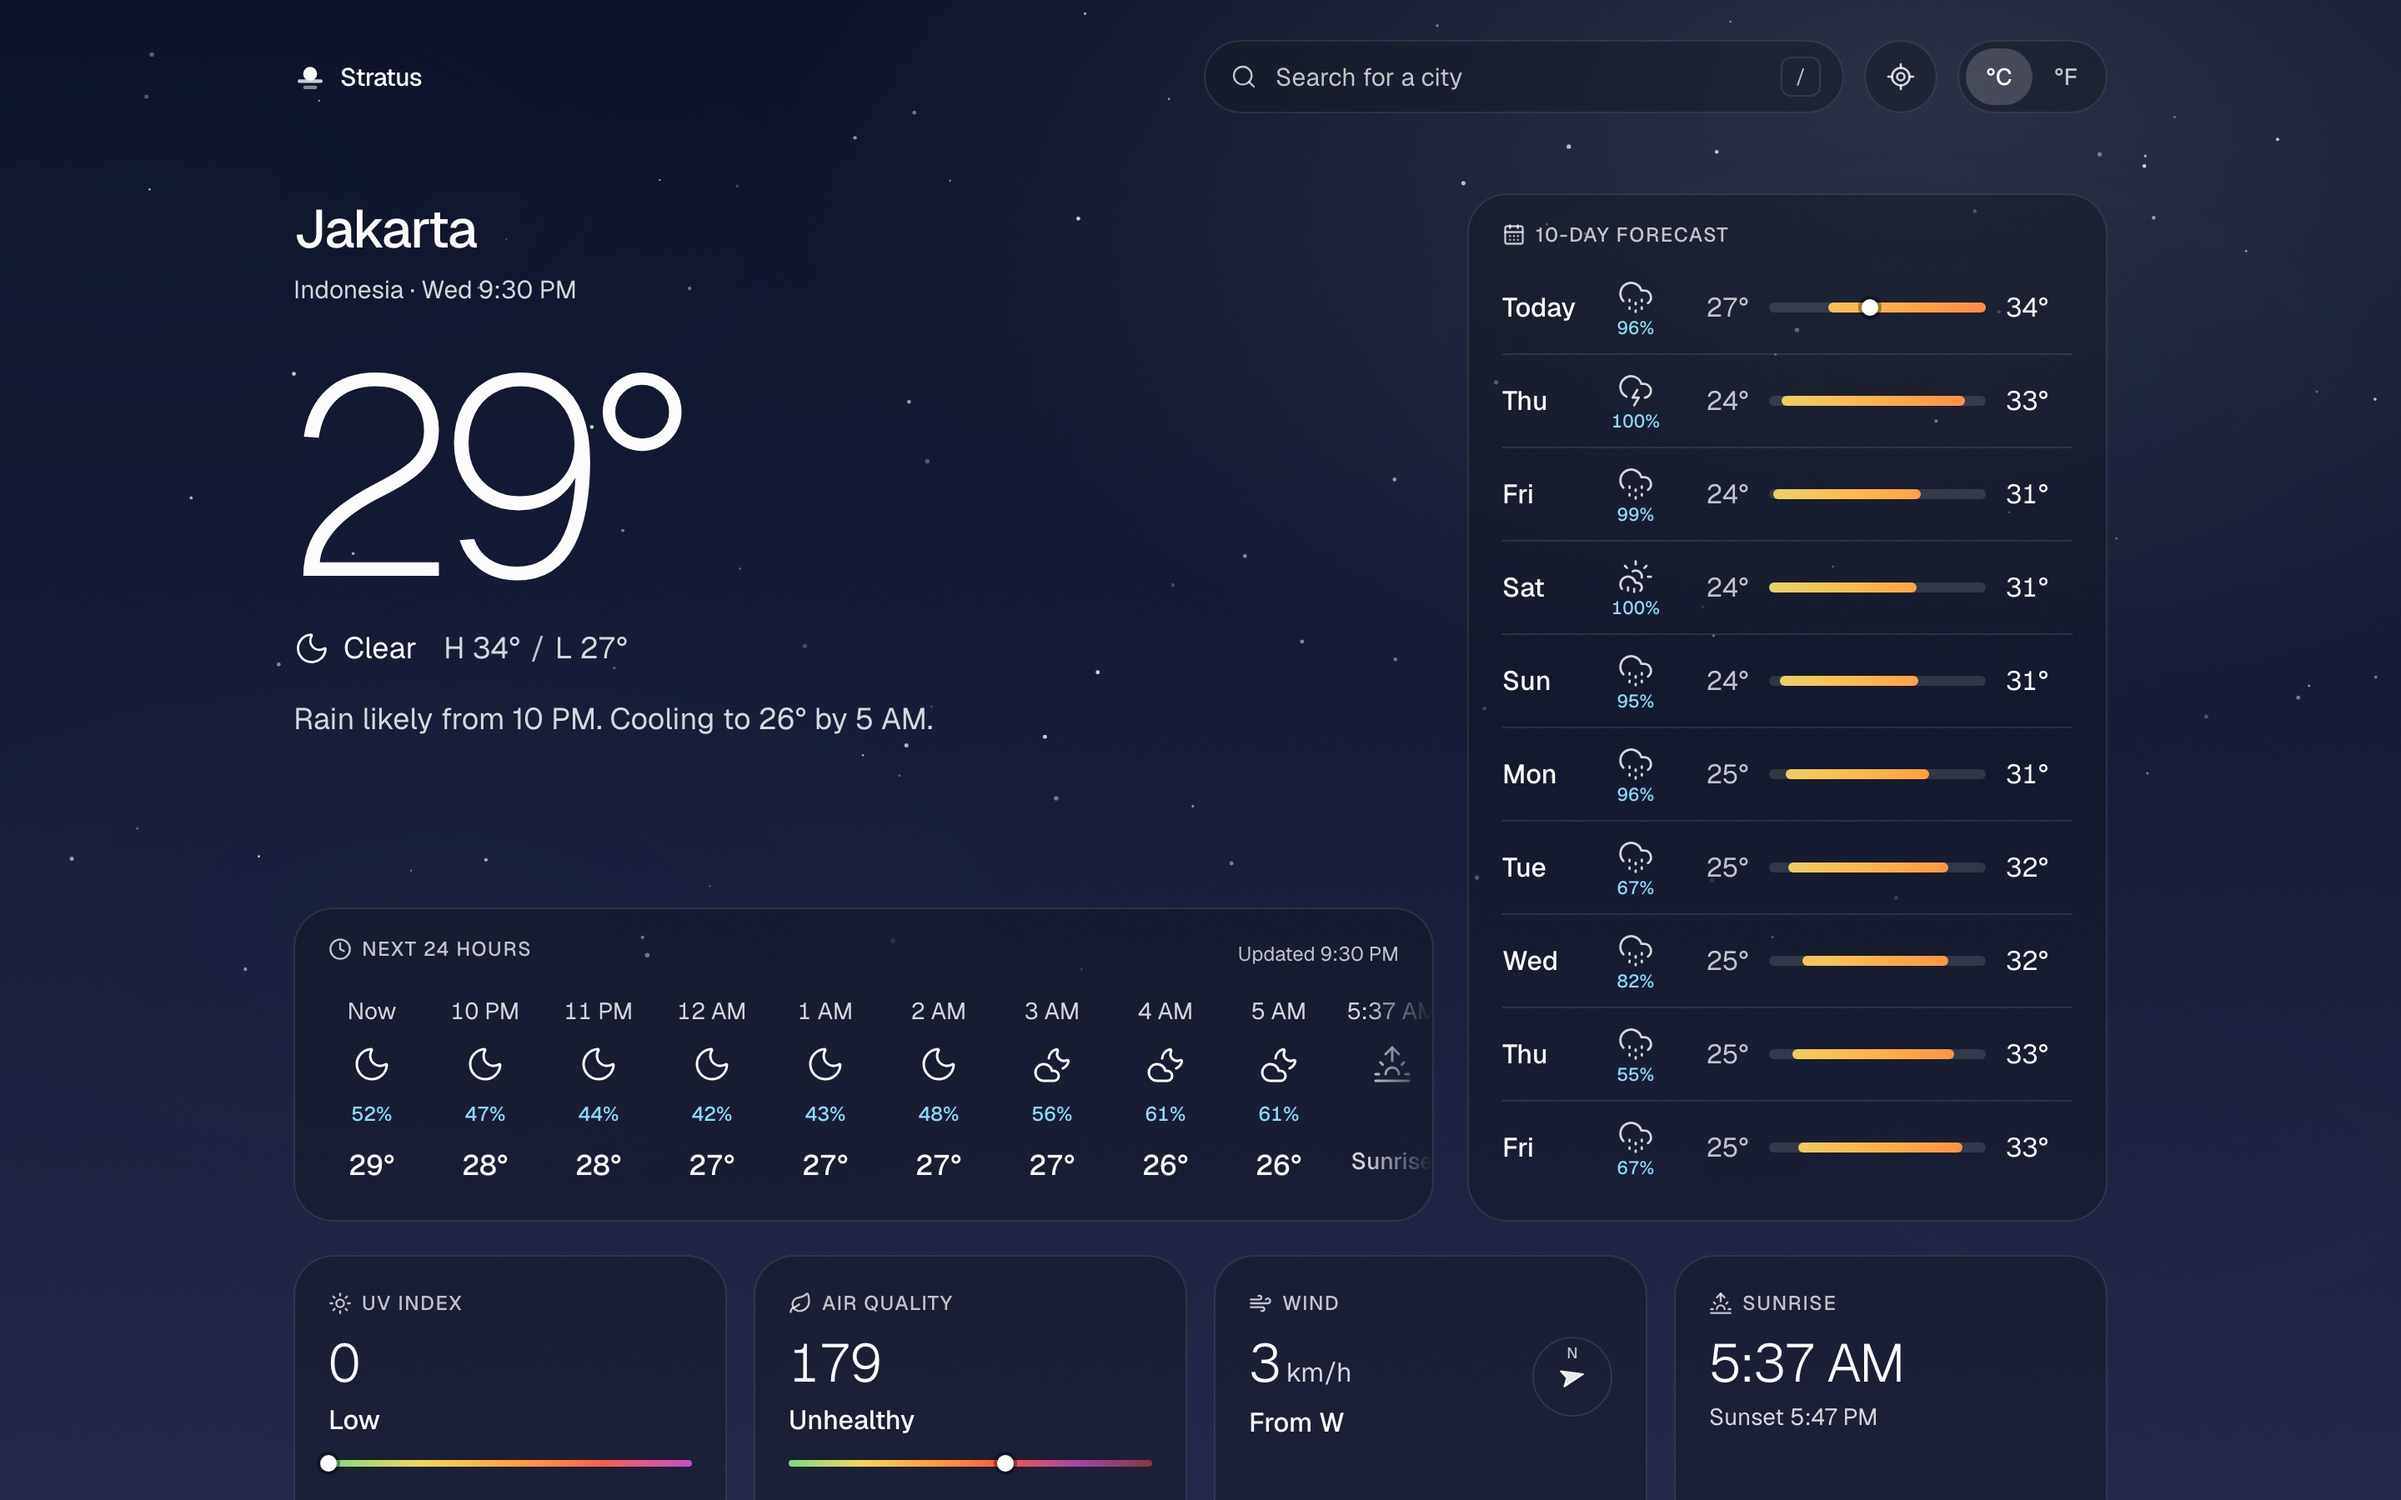
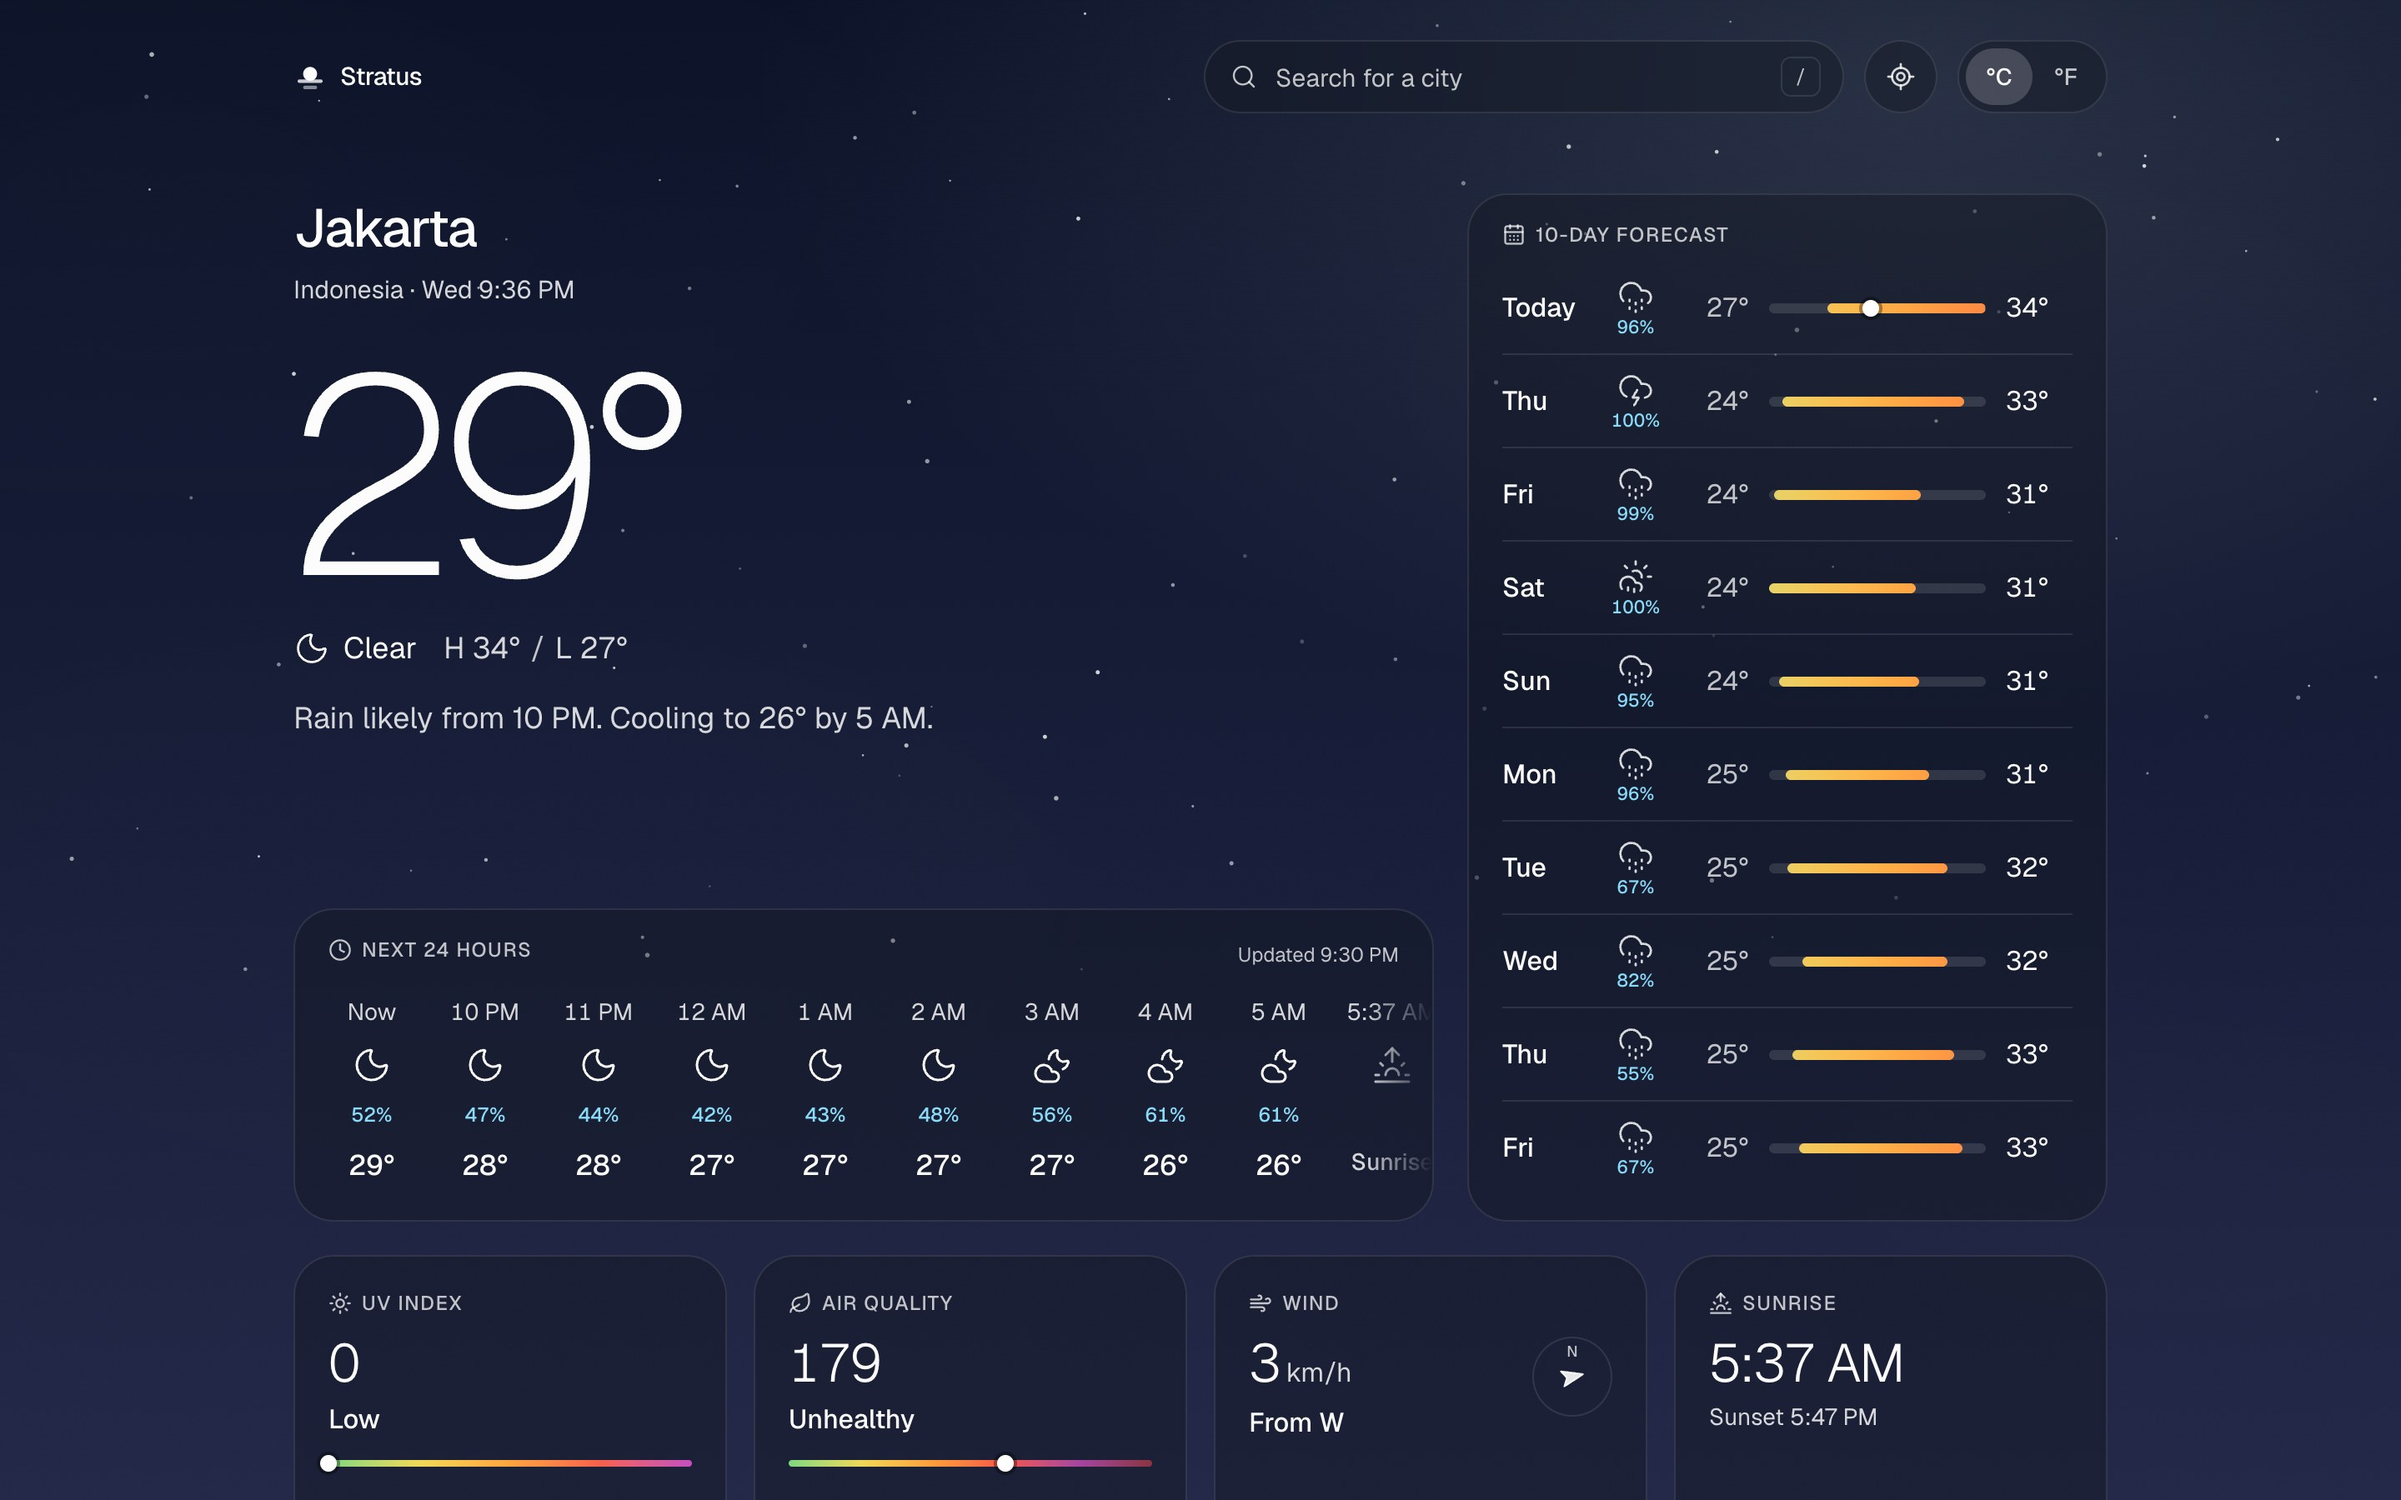
Keep detail values on one line on small screens
The wind compass moves to the card corner, and the precipitation window
reads as context rather than as a level.

Changed region(s): [[0.5312, 0.6222, 0.5625, 0.6533], [0.5312, 0.0311, 0.5625, 0.0622], [0.2188, 0.1867, 0.25, 0.2178]]

diff --git a/src/components/forecast/details.tsx b/src/components/forecast/details.tsx
@@ -38,7 +38,7 @@ function Card({
   note?: ReactNode;
 }) {
   return (
-    <section className="flex min-h-44 flex-col panel p-4 sm:p-5">
+    <section className="relative flex min-h-44 flex-col panel p-4 sm:p-5">
       <h3 className="flex items-center gap-1.5 label">
         <Icon aria-hidden className="size-3.5" strokeWidth={2} />
         {title}
@@ -51,11 +51,24 @@ function Card({
   );
 }
 
-function Value({ children, caption }: { children: ReactNode; caption?: ReactNode }) {
+function Value({
+  children,
+  caption,
+  context,
+}: {
+  children: ReactNode;
+  /** A reading of the value, such as "Moderate". */
+  caption?: ReactNode;
+  /** What the value covers, such as "Next 24 hours". */
+  context?: ReactNode;
+}) {
   return (
     <>
-      <p className="text-[2rem] leading-none font-light tracking-tight tabular-nums">{children}</p>
+      <p className="text-[2rem] leading-none font-light tracking-tight whitespace-nowrap tabular-nums">
+        {children}
+      </p>
       {caption && <p className="mt-1.5 font-medium">{caption}</p>}
+      {context && <p className="mt-1.5 text-sm text-fg-muted">{context}</p>}
     </>
   );
 }
@@ -92,7 +105,7 @@ function uvNote({ current, hourly, daily }: Forecast, format: Formatters): strin
 
   if (tomorrow?.uvIndexMax != null) {
     const peak = Math.round(tomorrow.uvIndexMax);
-    return `Tomorrow peaks at ${peak}, ${uvLevel(peak).label.toLowerCase()}.`;
+    return `Tomorrow peaks at ${peak} (${uvLevel(peak).label.toLowerCase()}).`;
   }
   return null;
 }
@@ -248,22 +261,18 @@ export function Details({
             ) : undefined
           }
         >
-          <div className="flex items-start justify-between gap-3">
-            <div>
-              <Value caption={`From ${compassDirection(current.windDirection)}`}>
-                <Speed kmh={current.windSpeed} unitClassName={unit} />
-              </Value>
-            </div>
-            <div className="relative grid size-12 shrink-0 place-items-center rounded-full border border-line">
-              <span className="absolute top-0.5 text-[9px] font-medium text-fg-subtle">N</span>
-              {/* Points where the wind is going. */}
-              <Navigation2
-                aria-hidden
-                className="size-4 fill-white/90 text-white/90"
-                strokeWidth={1.5}
-                style={{ transform: `rotate(${current.windDirection + 180}deg)` }}
-              />
-            </div>
+          <Value caption={`From ${compassDirection(current.windDirection)}`}>
+            <Speed kmh={current.windSpeed} unitClassName={unit} />
+          </Value>
+          <div className="absolute top-3.5 right-3.5 grid size-11 place-items-center rounded-full border border-line sm:top-4 sm:right-4">
+            <span className="absolute top-0.5 text-[9px] font-medium text-fg-subtle">N</span>
+            {/* Points where the wind is going. */}
+            <Navigation2
+              aria-hidden
+              className="size-4 fill-white/90 text-white/90"
+              strokeWidth={1.5}
+              style={{ transform: `rotate(${current.windDirection + 180}deg)` }}
+            />
           </div>
         </Card>
 
@@ -293,7 +302,7 @@ export function Details({
         </Card>
 
         <Card icon={Umbrella} title="Precipitation" note={nextWetDay(forecast, format)}>
-          <Value caption="In the next 24 hours">
+          <Value context="Next 24 hours">
             <Precipitation mm={next24h} unitClassName={unit} />
           </Value>
         </Card>
